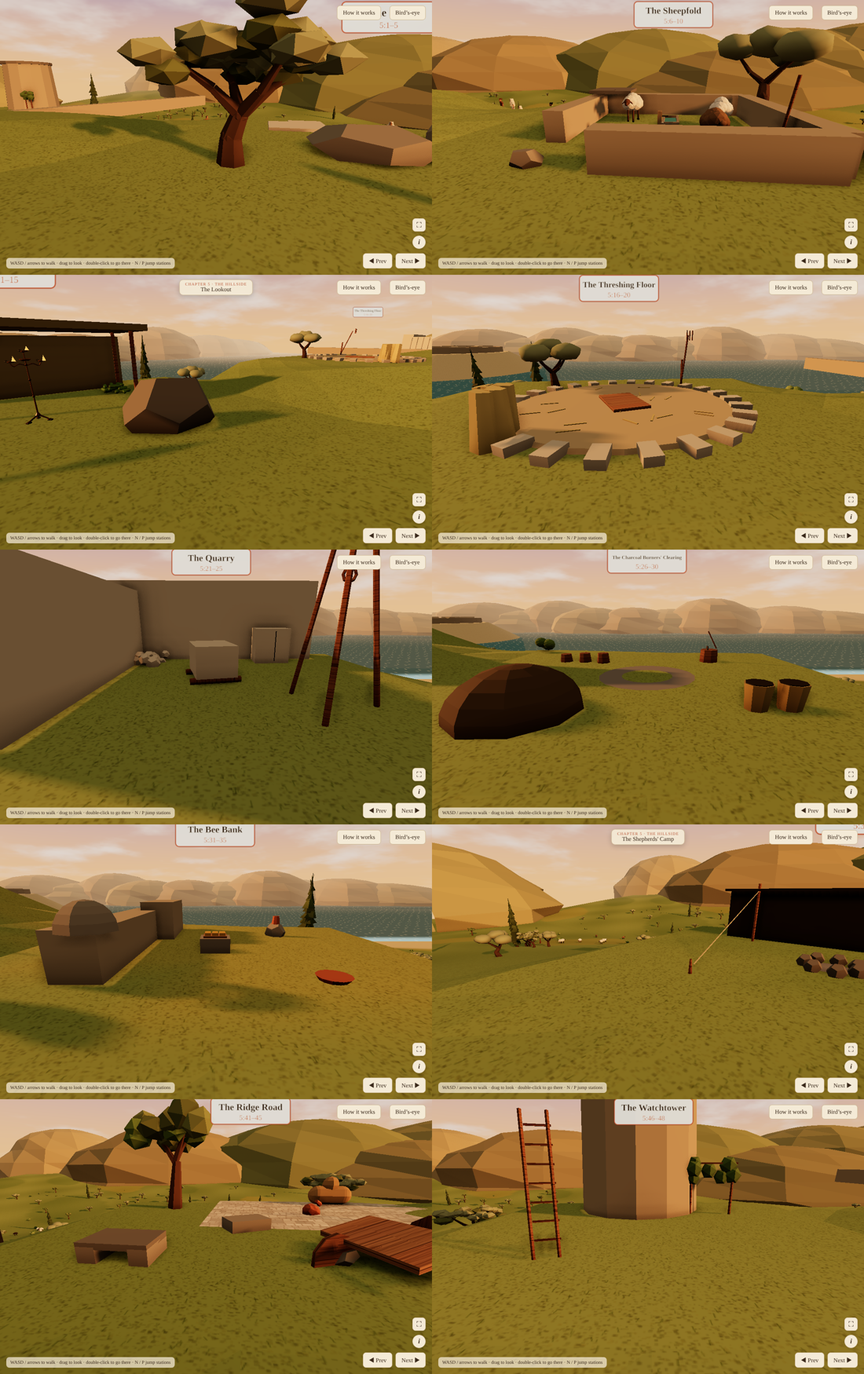
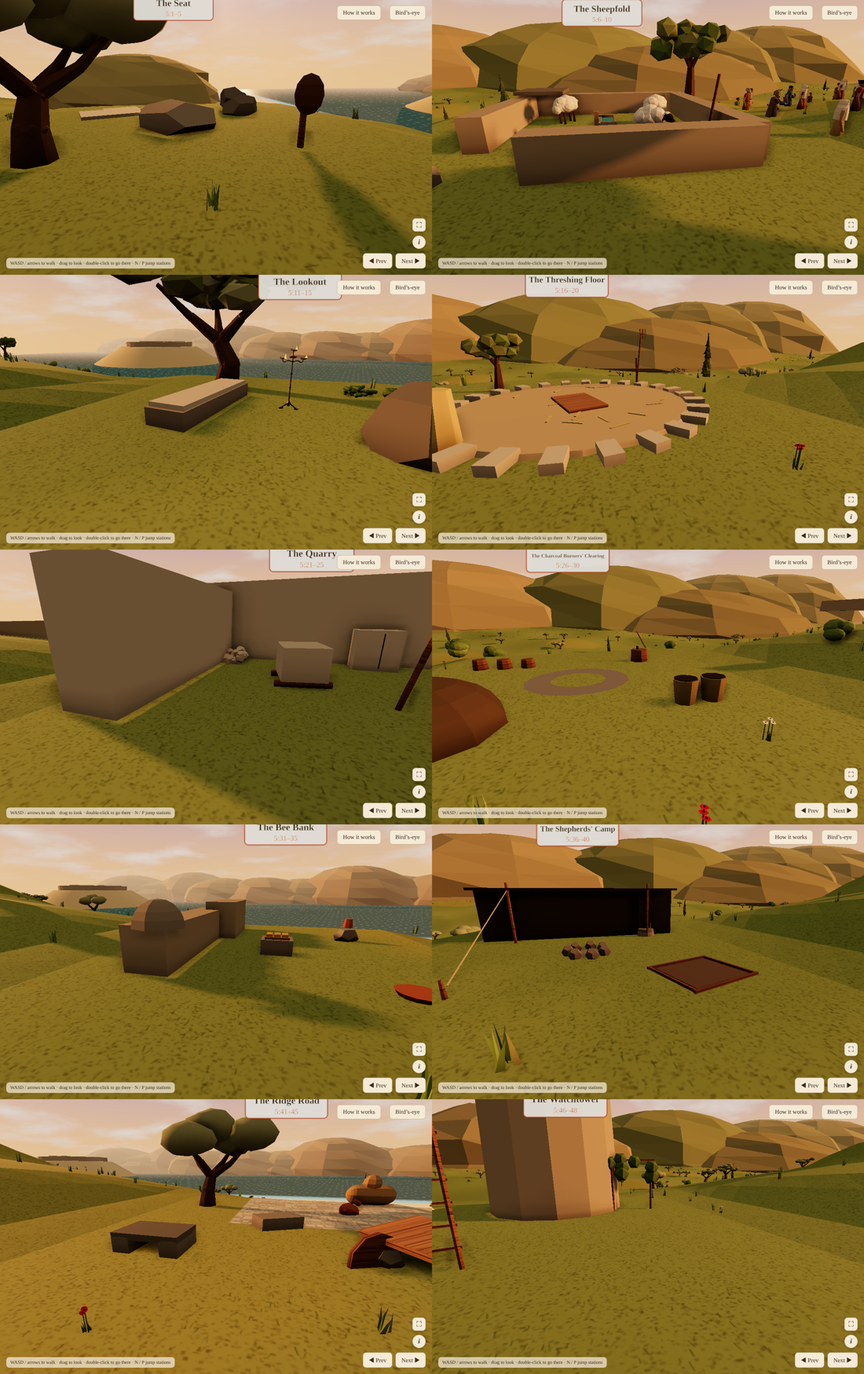
Sermon on the Mount: zigzag down the whole summit; Lookout is a long flat rock under a terebinth; rule 6 hillside form
Claude-Session: https://claude.ai/code/session_011GTaBjBmrRYMxR8CbFEKPF

diff --git a/som-ltm/world/mount.js b/som-ltm/world/mount.js
@@ -2,10 +2,9 @@
 // Method rule 4: each verse on a SPOT, a feature of the place (P) or an object (O); at least two natural objects per room.
 // Spots in the fixed order, as seen standing on the path facing the room: 1 near-left, 2 far-left, 3 far-right, 4 near-right, 5 centre.
 // Layout: the ridge runs along z = 0, with the trodden path on its crest. Compass: east = -x, north = +z (see world/terrain.js).
-//   The Crown (east of the stile at x = STILE_X), TRIAL 2026-11-13: highest at its east end. Start at the Seat on the top,
-//   then a switchback trail (TRAIL, world/terrain.js) zigzags down the hill: room 2 north, room 3 south (the lake edge), room 4 north, then the stile.
-//   The Upper Meadow (west of the stile): facing west, rooms 5-7 on the left (south), turn, rooms 8-10 on the right (north) back to the stile.
-//   The path down to chapter 6 leaves from the Watchtower (room 10), down the west side of the field wall.
+//   Rule 6, hillside form: a switchback trail (TRAIL, world/terrain.js) runs down the ridge from the Seat on the top (east end),
+//   rooms at its turns alternating north and south, each lower than the last: rooms 1-4 on the Crown, the stile, rooms 5-10 in the Upper Meadow.
+//   The path down to chapter 6 leaves from the Watchtower (room 10) at the low west end.
 const GZ = -16, TZ = 0, HX = 0, HZ = 400;            // the player starts at (0, GZ + 16) = (0, 0), on the ridge path; HX/HZ unused
 const RAISED = [];
 const WALKWAYS = [[STILE_X - 1.5, -1.8, STILE_X + 1.5, 1.8]];   // the stile gap
@@ -54,15 +53,12 @@ defBuilder('som.fold', (r, { ch }) => { const F = roomFrame(r), h = 3, W = .55, 
   for (const [f, s] of [[1.4, -1.4], [.5, 1.6], [-1.3, 1.1]]) { const [x, z] = F.at(f, s); sheep(x, z); }
   finishRoom(ch, r, F, out); });
 
-// ---- 5.3 THE LOOKOUT (5:11–15): gourd on a pole · brushwood back wall · heap of cucumbers · cliff-edge boulder · lamp on its stand ----
+// ---- 5.3 THE LOOKOUT (5:11–15): a long flat rock under a great terebinth on the lake edge, the view open to Hippos ----
+// near end of the long flat rock · the terebinth's trunk · heap of cucumbers · cliff-edge boulder · lamp on its stand
 defBuilder('som.lookout', (r, { ch }) => { const F = roomFrame(r), h = 2.4, sp = SQ(h).map(([f, s]) => F.at(f, s)), out = [];
-  const booth = atR(F, h * .55, 0, Math.PI);                     // local +z = forward
-  for (const s of [-h - .6, h + .6]) for (const f of [0, h * .9]) cyl(.07, .08, 2.3, 6, 'wood', s, 0, f, booth);
-  box(2 * h + 1.6, 2.1, .25, brushM, 0, 0, h * .9 + .15, booth);                       // the woven back wall
-  box(2 * h + 2, .2, h * .9 + 1, brushM, 0, 2.25, h * .45, booth);                     // the brushwood roof
-  { const g = atR(F, -h, -h); cyl(.06, .07, 1.9, 6, 'wood', 0, 0, 0, g); add(new THREE.SphereGeometry(.22, 8, 6), mat('somGourd', '#c9a24e'), .14, 1.45, 0, g).scale.y = 1.4; out.push(ground(sp[0], 1.95)); }
-  out.push(ground(F.at(h + .4, -h), 1.2));                                                // on the back wall (its middle, so the marker rests on it)
-  { const g = atR(F, h - .3, h); for (let k = 0; k < 14; k++) { const c = add(new THREE.CapsuleGeometry(.07, .28, 3, 6), cukeM, R(-.4, .4), .1 + (k % 3) * .1, R(-.3, .3), g); c.rotation.z = Math.PI / 2; c.rotation.y = R(0, 3); } out.push(ground(F.at(h - .3, h), .5)); }
+  { const g = atR(F, -h + .2, -h - .2, -.15); const rk = box(1.1, .5, 4.2, rockM, 0, -.05, -1.6, g); rk.scale.set(1, 1, 1); box(1, .12, 4, paleM, 0, .45, -1.6, g); out.push(ground(sp[0], .65)); }   // the long flat rock, running away from you along the left
+  { const [x, z] = F.at(h + .3, -h - .3); tree(x, z, 1.9); out.push(ground(sp[1], .7)); }                                   // the great terebinth over it
+  { const g = atR(F, h, h); for (let k = 0; k < 16; k++) { const c = add(new THREE.CapsuleGeometry(.07, .28, 3, 6), cukeM, R(-.45, .45), .08 + (k % 3) * .1, R(-.35, .35), g); c.rotation.z = Math.PI / 2; c.rotation.y = R(0, 3); } for (let k = 0; k < 10; k++) add(new THREE.IcosahedronGeometry(R(.15, .25), 0), leafM, R(.8, 2.4), .1, R(-1.5, 1.5), g); out.push(ground(sp[2], .45)); }
   { const [x, z] = sp[3]; out.push({ x, z, y: somRock(x, z, 1.1) }); }
   { const [cx, cz] = sp[4]; out.push({ x: cx, z: cz, y: libAt('candelabrum', cx, cz, 0, 1) }); }
   finishRoom(ch, r, F, out); });
@@ -97,7 +93,7 @@ defBuilder('som.charcoal', (r, { ch }) => { const F = roomFrame(r), h = 2.6, sp 
   { const g = atR(F, h, h); cyl(.35, .38, .5, 8, 'wood', 0, 0, 0, g); const hd = cyl(.025, .025, .8, 5, 'wood', .1, .5, 0, g); hd.rotation.z = .5; box(.04, .14, .22, ironM, -.08, .5, 0, g); out.push(ground(sp[2], .55)); }
   { const g = atR(F, -h, h); for (const s of [-.35, .35]) { cyl(.3, .24, .55, 8, mat('somRush', '#a08a52'), s, 0, 0, g); cyl(.27, .27, .05, 8, darkM, s, .52, 0, g); } out.push(ground(sp[3], .6)); }
   { const m = add(new THREE.RingGeometry(.8, 1.5, 18), ashM, F.x, F.y + .04, F.z); m.rotation.x = -Math.PI / 2; out.push({ x: F.x, z: F.z, y: F.y + .1 }); }
-  for (let i = 0; i < 12; i++) { const a = R(0, 6.3), d = R(7, 11), x = F.x + Math.cos(a) * d, z = F.z + Math.sin(a) * d; if (Math.abs(z) > 4) shrub(x, z, R(1, 1.4)); }   // the scrub round the clearing
+  for (let i = 0; i < 12; i++) { const a = R(0, 6.3), d = R(7, 11), x = F.x + Math.cos(a) * d, z = F.z + Math.sin(a) * d; if (TRAIL_D(x, z) > 4) shrub(x, z, R(1, 1.4)); }   // the scrub round the clearing, off the trail
   finishRoom(ch, r, F, out); });
 
 // ---- 5.7 THE BEE BANK (5:31–35): capped bank end · stacked hive pipes · smoker pot · bees' water dish · tray of comb ----
@@ -156,7 +152,7 @@ defBuilder('som.tower', (r, { ch }) => { const F = roomFrame(r), h = 2.3, sp = S
     placed.push([x, z]); person(x, z, Math.atan2(sx - x, sz - z), ROBES[(rnd() * ROBES.length) | 0], { y: heightAt(x, z) - .55, veil: rnd() > .65 ? '#e8dcc4' : undefined, hair: (rnd() * 4) | 0 }); }
 }
 // ---------- olive trees and scrub on the slopes, clear of the ridge path, the rooms, the crowd and the path down ----------
-{ const clear = (x, z) => (Math.abs(z) < 21 && x > -52 && x < 95) || (x > -62 && x < -26 && z > 5 && z < 44) || (Math.abs(x - 19) < 5 && z < 0) || Math.hypot(x - CITY[0], z - CITY[1]) < 40;
+{ const clear = (x, z) => (Math.abs(z) < 21 && x > -52 && x < 112) || (x > -62 && x < -26 && z > 5 && z < 44) || (Math.abs(x - 110) < 5 && z < 0) || Math.hypot(x - CITY[0], z - CITY[1]) < 40;
   for (let i = 0; i < 340; i++) { const x = R(-180, 200), z = R(-90, 150); if (clear(x, z)) continue; const r = rnd(); if (r < .5) tree(x, z, R(.7, 1.1)); else if (r < .58) cypress(x, z, R(.8, 1.1)); else shrub(x, z, R(.9, 1.5)); }
   for (let i = 0; i < 14; i++) sheep(R(110, 150), R(30, 70));
 }
@@ -168,5 +164,4 @@ for (const [x, r] of [[-30, .3], [-24, -.2], [-6, .1]]) { const z = SHORE + 2, b
 buildRooms(1);
 // walking routes: along the ridge path, through the stile, never across a room
 VIA['1.5'] = [[10, 1], [STILE_X, 0], [22, 0]];                     // down the last leg of the trail and over the stile into the Upper Meadow
-VIA['1.8'] = [[78, 0], [88, 0], [78, 0]];                          // the Meadow loop turns at its west end
 zoneLabel(5, 'The Summit', 20, 0);

diff --git a/som-ltm/world/terrain.js b/som-ltm/world/terrain.js
@@ -5,7 +5,7 @@
 // Hippos, the town on its hill across the lake, lies to the south-east: "a city set on a hill" (5:14).
 const SHORE = -95;
 // the switchback trail down the Crown: from the Seat at the top, turning at each room, down to the stile (kept in step with world/mount.js)
-const TRAIL = [[-34, 0], [-24, 4], [-10, -4], [4, 4], [15, 0]];
+const TRAIL = [[-34, 0], [-24, 4], [-10, -4], [4, 4], [15, 0], [29, -4], [43, 4], [57, -4], [71, 4], [85, -4], [99, 4], [108, 0]];
 const TRAIL_D = (x, z) => { let d = 1e9; for (let i = 0; i < TRAIL.length - 1; i++) { const [ax, az] = TRAIL[i], [bx, bz] = TRAIL[i + 1], dx = bx - ax, dz = bz - az, t = Math.max(0, Math.min(1, ((x - ax) * dx + (z - az) * dz) / (dx * dx + dz * dz))); d = Math.min(d, Math.hypot(x - ax - dx * t, z - az - dz * t)); } return d; };
 const HILL = 24;                                                     // height of the Crown above the shore
 const STILE_X = 15;
@@ -23,7 +23,7 @@ function hRaw(x, z) {
 }
 // level pads under each room, kept in step with books/matthew.json. [cx, cz, halfW, halfD]
 const FLAT = [[-42, 0, 5.5, 5.5], [-24, 12, 5.5, 5.5], [-10, -12, 5.5, 5.5], [4, 12, 5.5, 5.5],
-  [32, -11, 5.5, 5.5], [52, -11, 5.5, 5.5], [72, -11, 5.5, 5.5], [72, 11, 5.5, 5.5], [52, 11, 5.5, 5.5], [32, 11, 5.5, 5.5]];
+  [29, -12, 5.5, 5.5], [43, 12, 5.5, 5.5], [57, -12, 5.5, 5.5], [71, 12, 5.5, 5.5], [85, -12, 5.5, 5.5], [99, 12, 5.5, 5.5]];
 const heightAt0 = (x, z) => hRaw(x, z);
 const heightAt = (x, z) => { let h = heightAt0(x, z);
   for (const [cx, cz, hw, hd] of FLAT) { const dx = Math.max(0, Math.abs(x - cx) - hw), dz = Math.max(0, Math.abs(z - cz) - hd), d = Math.hypot(dx, dz);
@@ -40,8 +40,8 @@ const heightAt = (x, z) => { let h = heightAt0(x, z);
     p.setY(i, heightAt(x, z));
     const c = cGrass.clone().lerp(cGrass2, (Math.sin(x * .13) * Math.cos(z * .11) + 1) / 2);
     const n2 = Math.sin(x * .041 + 2) * Math.sin(z * .047) + Math.sin(x * .09 - z * .07) * .5; if (n2 > .7) c.lerp(cFlower, .35); else if (n2 < -.6) c.lerp(new THREE.Color('#6f8c45'), .4);
-    if (Math.abs(x - 19 - Math.sin(z * .05) * 4) < 2 && z < -2 && z > SHORE) c.lerp(cPath, .7);   // the path down, west of the stile
-    if ((Math.abs(z) < 2.6 && x > STILE_X - 4 && x < 88) || TRAIL_D(x, z) < 1.6) c.lerp(cPath, .45);                                                                  // the trodden way along the ridge
+    if (Math.abs(x - 110 - Math.sin(z * .05) * 4) < 2 && z < 0 && z > SHORE) c.lerp(cPath, .7);   // the path down from the Watchtower
+    if (TRAIL_D(x, z) < 1.6) c.lerp(cPath, .45);                                                                  // the trodden way along the ridge
     if (z < SHORE + 8) c.lerp(cBank, Math.min(1, (SHORE + 8 - z) / 6));
     col.push(c.r, c.g, c.b);
   }

diff --git a/som-ltm/PLAN.md b/som-ltm/PLAN.md
@@ -22,7 +22,7 @@ You **begin where he sat down** (5:1) and **walk down the mountain** (8:1):
 **Clockwise, as the method defines it.** Chapter 5 is two clockwise loops joined at the stile, the Crown and then the Upper Meadow; chapters 6 and 7 are one loop each. You enter a district facing in. Rooms run up your **left** side, cross at the far end, and come back down your **right** side. Seen from above, that's clockwise.
 
 The way from one district to the next leaves from the last room, never from the far end:
-- The summit's last room is the Watchtower, where the path down starts.
+- The summit's last room is the Watchtower, at the low west end of the ridge, where the path down starts.
 - The farm's last room is at its upper-west corner, beside the west gate, where the lane down starts.
 - The village ends beside its own entrance, at the wadi.
 
@@ -45,23 +45,23 @@ The way from one district to the next leaves from the last room, never from the 
 
 ## 3. Chapter 5: the Summit (10 rooms)
 
-**Layout.** The top of the hill is a ridge running east–west. A dry-stone field wall with a **stile** crosses it and divides it in two:
-- **The Crown** lies east of the wall. It is the highest point, where he sat, and holds rooms 1–4 (outline: Setting, Beatitudes, Set Apart).
-- **The Upper Meadow** lies west of the wall. It holds rooms 5–10 (outline: But I Tell You).
+**Layout.** The top of the hill is a ridge running east–west. It is highest at its east end, where he sat, and falls steadily west. A dry-stone field wall with a **stile** crosses it and divides it in two:
+- **The Crown** lies east of the wall and holds rooms 1–4 (outline: Setting, Beatitudes, Set Apart).
+- **The Upper Meadow** lies west of the wall and holds rooms 5–10 (outline: But I Tell You).
 
 The outline's first big break (5:20 / 5:21) is the stile itself.
 
-**Route.**
-1. You start just east of the stile, facing east, with the Crown ahead.
-2. **The Crown loop** goes up the left side (north): 1 the Seat, then 2 the Sheepfold. It turns at the east end and comes back down the right side (south, the lake edge): 3 the Lookout, facing Hippos across the lake, then 4 the Threshing Floor, beside the stile.
-3. Over the stile, facing west, **the Upper Meadow loop** goes up the left side (south): 5 the Quarry, 6 the Charcoal Burners' Clearing, 7 the Bee Bank. It turns at the west end and comes back down the right side (north): 8 the Shepherds' Camp, 9 the Ridge Road, 10 the Watchtower, beside the stile.
-4. The path down to chapter 6 leaves from the Watchtower. It runs along the west side of the field wall to the ridge's south edge, without crossing the stile, then down the slope.
+**Route** (rule 6, hillside form). A switchback trail runs down the ridge from the top. Rooms stand at its turns, alternating sides (north = the inland side, south = the lake side), and each is lower than the one before.
+1. **The Seat** is on the very top. You start there, facing it.
+2. The trail turns down to the north for **the Sheepfold**, then to the south for **the Lookout** on the lake edge, then to the north for **the Threshing Floor**. Its last leg goes down to the stile.
+3. Over the stile, it keeps zigzagging west and down: south for **the Quarry**, north for **the Charcoal Burners' Clearing**, south for **the Bee Bank**, north for **the Shepherds' Camp**, south for **the Ridge Road**, and north for **the Watchtower** at the meadow's low west end.
+4. The path down to chapter 6 leaves from the Watchtower, south down the slope.
 
 | Room | Verses | Place | 1 near-left | 2 far-left | 3 far-right | 4 near-right | 5 centre | Objects in the room |
 | --- | --- | --- | --- | --- | --- | --- | --- | --- |
 | 5.1 | 5:1–5 | **The Seat**: a rock outcrop on the crown | the old olive tree (O) | a patch of bare limestone pavement (P) | a split boulder with a thornbush in its crack (P) | a goatskin water bag hung on a stake (O) | the flat seat-rock where he sat (P) | olive tree; water bag on its stake |
 | 5.2 | 5:6–10 | **The Sheepfold**: a dry-stone pen | the gateway (P) | the corner roofed with flat slabs as a shelter (P) | the corner shaded by an oak (O) | the shepherd's crook hung on the wall (O) | the stone water trough (O) | trough; oak; crook; the flock |
-| 5.3 | 5:11–15 | **The Lookout**: a brushwood field booth in a cucumber field on the south edge. You face it from the path, and Hippos across the lake lies beyond it on your left | a gourd bottle hung on the booth's front pole (O) | the booth's woven brushwood back wall (P) | a heap of cucumbers from the field (O) | the cliff-edge boulder over the lake (P) | lamp on its stand, set out on the open ground in front of the booth **(v)** (O) | gourd; cucumbers; lamp stand |
+| 5.3 | 5:11–15 | **The Lookout**: a long flat rock under a great terebinth on the lake edge, open to the view of Hippos across the water, beside a cucumber field | the near end of the long flat rock (P) | the terebinth's trunk (O) | a heap of cucumbers from the field (O) | the cliff-edge boulder over the lake (P) | lamp on its stand **(v)** (O) | terebinth; cucumbers; lamp stand |
 | 5.4 | 5:16–20 | **The Threshing Floor**: a round floor of beaten earth ringed with stones, open to the west wind | a stack of sheaves (O) | the lone thorn tree at the floor's windward side (O) | the winnowing fork (O) | the floor's raised stone edge, worn smooth (P) | the threshing sledge (O) | sheaves; thorn tree; fork; sledge |
 | — | — | **The Stile**: the field wall across the ridge (5:20 / 5:21) | | | | | | |
 | 5.5 | 5:21–25 | **The Quarry**: a small stone quarry cut into the ridge | the left quarry face, striped with chisel marks (P) | a spoil heap of rock chippings at the foot of the face (P) | iron wedges hammered into a crack (O) | wooden shear-legs for lifting stone (O) | a squared block on wooden rollers (O) | wedges; shear-legs; block on rollers |
@@ -69,7 +69,7 @@ The outline's first big break (5:20 / 5:21) is the stile itself.
 | 5.7 | 5:31–35 | **The Bee Bank**: clay-pipe beehives set in a stone bank | the bank's rounded end with a capstone (P) | the stacked hive pipes (O) | the smoker pot (O) | a shallow clay water dish for the bees (O) | the beekeeper's tray of comb (O) | hive pipes; smoker; water dish; tray |
 | 5.8 | 5:36–40 | **The Shepherds' Camp**: a black goat-hair tent | the tent's left guy-rope peg (P) | the tent's open front and its pole (P) | a quern at the tent's right corner (O) | a ground loom pegged out on the grass (O) | the hearth stones (O) | tent; quern; loom; hearth |
 | 5.9 | 5:41–45 | **The Ridge Road**: the road over the hill, where the village track forks off | the culvert stones where the road crosses a gully (P) | a lone carob tree (O) | a broken amphora half-buried by the road (O) | a cart with a broken wheel, propped on stones (O) | the flat stone at the fork where travellers rest (P) | carob tree; amphora; broken cart; a camel resting beyond the fork |
-| 5.10 | 5:46–48 | **The Watchtower**: a round stone vineyard tower on the ridge's north side, near the stile | the tower's wooden ladder (O) | the tower's lookout window (P) | the vine trellis (O) | — | — | ladder; trellis |
+| 5.10 | 5:46–48 | **The Watchtower**: a round stone vineyard tower at the meadow's low west end | the tower's wooden ladder (O) | the tower's lookout window (P) | the vine trellis (O) | — | — | ladder; trellis |
 
 **Outline signposts in chapter 5.** Each stands beside the spot where its section's first verse lives. A sign names the full path when a new higher section begins.
 - *Setting* (5:1–2), with the PDF's own heading for the whole sermon (*Discourse: Ethics*) on the board at the start: 5.1 spot 1.
@@ -100,7 +100,7 @@ The outline's big break, Focus Internally (6:1–18) / Focus Eternally (6:19–3
 | 6.1 | 6:1–5 | **The Courtyard**: the paved court of the farmhouse | the gate's left pier (P) | the curtained doorway into the house (P) | the stone stair up to the roof (P) | the stone roof-roller (O) | the cistern mouth with its round stone lid (O) | roof-roller; cistern lid; a donkey tethered by the gate |
 | 6.2 | 6:6–10 | **The Inner Storeroom**: a windowless room behind a shut door | the shut door's stone threshold (P) | a row of tall storage jars (O) | bunches of dried herbs from a beam (O) | a plastered wall shelf (P) | a wooden chest (O) | jars; herbs; chest |
 | 6.3 | 6:11–15 | **The Bakehouse Yard**: the clay oven and kneading yard | the sieve on its hook (O) | the woodpile (O) | the clay oven (O) | the yard's smoke-stained corner (P) | the kneading bowl with its cloth (O) | sieve; woodpile; oven; kneading bowl; loaves cooling by the oven |
-| 6.4 | 6:16–20 | **The Spring**: where the spring runs out of the rock at the bottom of the farm | the spout (P) | flask of oil on a ledge of rock **(v)** (O) | a wash-line with a tunic drying (O) | a terebinth shading the bank (O) | the stepping stones across the outflow (P) | oil flask; wash-line; terebinth; a linen towel spread on the rocks |
+| 6.4 | 6:16–20 | **The Spring**: where the spring runs out of the rock at the bottom of the farm | the spout (P) | flask of oil on a ledge of rock **(v)** (O) | a wash-line with a tunic drying (O) | a willow shading the bank (O) | the stepping stones across the outflow (P) | oil flask; wash-line; willow; a linen towel spread on the rocks |
 | 6.5 | 6:21–25 | **The Ox Stall**: an open-fronted stall | the left stall post (P) | the yoke on its peg (O) | the plough (O) | a heap of straw bedding (O) | the feeding niche cut in the back wall (P) | yoke; plough; straw; the ox |
 | 6.6 | 6:26–30 | **The Granary Field**: a granary at the edge of a field | the terrace steps (P) | a patch of lentils (O) | the scarecrow (O) | the granary door (P) | a hoe left in the furrow (O) | lentils; scarecrow; hoe |
 | 6.7 | 6:31–34 | **The Olive Press**: the press at the farm's upper-west corner, beside the west gate | the crushing stone: a round millstone in its stone bed (O) | the press beam's socket in the wall (P) | a stack of rope pulp-baskets (O) | the rock-cut collecting pit for the oil (P) | — | crushing stone; pulp baskets |
@@ -168,8 +168,8 @@ Animals, the crowd and loose things are scenery and don't count as objects.
 
 | Chapter | Objects (O) | Place features (P) |
 | --- | --- | --- |
-| 5 | olive tree · water bag on a stake · stone water trough · oak · shepherd's crook · gourd bottle · heap of cucumbers · lamp stand (v) · sheaves · winnowing fork · thorn tree · threshing sledge · iron wedges · shear-legs · squared block on rollers · charcoal mound · axe and chopping block · rush baskets of charcoal · hive pipes · smoker pot · bees' water dish · tray of comb · quern · ground loom · hearth stones · goat-hair tent · carob tree · half-buried amphora · broken cart · tower ladder · vine trellis | limestone pavement · split boulder · seat-rock · fold gateway · slab-roofed corner · brushwood back wall · cliff-edge boulder  worn floor edge · chisel-marked face · spoil heap · cut stumps · ash ring · capped bank end · guy-rope peg · tent front · gully culvert · resting stone at the fork · tower lookout window  the stile |
-| 6 | roof-roller · cistern lid · storage jars · dried herbs · wooden chest · sieve · woodpile · clay oven · kneading bowl · oil flask (v) · wash-line · terebinth · linen towel · yoke · plough · straw bedding · lentils · scarecrow · hoe · crushing stone · pulp baskets | gate pier · curtained doorway · roof stair · storeroom threshold · wall shelf · smoke-stained corner · spout · stepping stones · stall post · feeding niche · terrace steps · granary door · press-beam socket · oil collecting pit · west gate |
+| 5 | olive tree · water bag on a stake · stone water trough · oak · shepherd's crook · terebinth · heap of cucumbers · lamp stand (v) · sheaves · winnowing fork · thorn tree · threshing sledge · iron wedges · shear-legs · squared block on rollers · charcoal mound · axe and chopping block · rush baskets of charcoal · hive pipes · smoker pot · bees' water dish · tray of comb · quern · ground loom · hearth stones · goat-hair tent · carob tree · half-buried amphora · broken cart · tower ladder · vine trellis | limestone pavement · split boulder · seat-rock · fold gateway · slab-roofed corner · long flat rock · cliff-edge boulder  worn floor edge · chisel-marked face · spoil heap · cut stumps · ash ring · capped bank end · guy-rope peg · tent front · gully culvert · resting stone at the fork · tower lookout window  the stile |
+| 6 | roof-roller · cistern lid · storage jars · dried herbs · wooden chest · sieve · woodpile · clay oven · kneading bowl · oil flask (v) · wash-line · willow · linen towel · yoke · plough · straw bedding · lentils · scarecrow · hoe · crushing stone · pulp baskets | gate pier · curtained doorway · roof stair · storeroom threshold · wall shelf · smoke-stained corner · spout · stepping stones · stall post · feeding niche · terrace steps · granary door · press-beam socket · oil collecting pit · west gate |
 | 7 | planks · pitch pot · trestle and adze · boat on stocks · salting vat · net · fish basket · mending stone and rope coil · tax table · mounting block · tethering rail · trade bales · almond tree · pomegranate tree · well with rope and bucket · pruned branches · stone bench · stone mortar · roofing reeds · drying flax · basket of dates · mud-brick stack | saw pit · courtyard entrance · narrow hill path · irrigation sluice · hewn doorstep · shelf edge · far bank · mud-brick front wall |
 | Scenery | the flock · camel · donkey · ox · mules · the crowd · loaves cooling (6.3) | |
 
@@ -179,7 +179,7 @@ Animals, the crowd and loose things are scenery and don't count as objects.
 
 1. **Chapter 5, rooms 1–4.** These are built already. Rework them to this plan:
    - distinct spots in the Seat and the Sheepfold;
-   - the Lookout's gourd, cucumbers and lamp, with Hippos in view (dropping the jar and bench);
+   - the Lookout as a long flat rock under a great terebinth, with the view open to the lake and Hippos (no hut);
    - the threshing floor's thorn tree and worn edge (dropping the corner sheaves);
    - the stile.
 2. **Chapter 5, rooms 5–10.**

diff --git a/ltm-engine/docs/METHOD.md b/ltm-engine/docs/METHOD.md
@@ -9,7 +9,7 @@ The owner's method for memorizing a book of the Bible with a location-triggered 
 | 3 | **Rooms of five verses** | A chapter of *n* verses has ceil(*n*/5) rooms. Room *k* holds verses 5*k*−4 … 5*k*; the last room may hold fewer. A room is any distinct place with a front, four corners and a centre that you can see while standing in front of it: an actual room, a gate court, a market stall, a stoa bay, a clearing on a hilltop. | Small, fixed-size chunks fit working-memory limits and give each room a predictable address (Cowan, 2001). |
 | 4 | **Each verse on a spot** | Each verse is tied to one spot: a fixed corner or the centre of the room. A spot can be a feature of the place itself (a doorway, a column, a corner of a wall, a step) or an object standing there. Every spot should be easy to point at and easy to tell apart from the other spots in its room. **Every room has at least two objects**, and they should look natural to that place (a fountain in a court, baskets in a stall, a bench in a stoa). Now and then an object can be made to suit a particular verse, when it helps and still fits the place, but that is the exception, not the pattern. Never fill a room with objects that only exist to carry verses. Objects should be unique across the book where possible. | Loci must be distinctive and well separated to avoid confusion (Bower, 1970; Yates, 1966). |
 | 5 | **Fixed order within a room** | As seen standing in front of the room: **1 near-left → 2 far-left → 3 far-right → 4 near-right → 5 centre.** Spot 5 is the centre of the square formed by spots 1–4, on an object if one stands there. A room with fewer than five verses uses spots 1, 2, 3… in that order and leaves the rest empty. | A constant traversal order is what turns the method of loci into a serial-recall tool (Bower, 1970; Dresler et al., 2017). |
-| 6 | **Rooms in a district run clockwise** | Start at the room nearest the district entrance on the left, go up the left side, then come back down the right. Gates and wells can be rooms. | The same: one fixed route through the whole palace. |
+| 6 | **Rooms follow one fixed route** | Rooms follow the natural route through the district, always in the same order. **In a town or court:** clockwise. Start at the room nearest the district entrance on the left, go up the left side, then come back down the right. **On a hillside:** a switchback trail from the highest point down, with the rooms at its turns, alternating sides, each lower than the last. Gates and wells can be rooms. | The same: one fixed route through the whole palace. |
 | 7 | **Learners make their own vivid images** | Show at most one or two example images, phrased "for example, you could picture…". Images should be bigger than life, funny, moving and emotional. The place gives the spot; the learner makes the picture. | Self-generated, interactive, distinctive imagery is recalled better (Bower, 1970; McDaniel & Einstein, 1986). |
 | 8 | **ESV text** | Verse text comes from `verses.json` (ESV, used with the owner's permission). The translation is fixed per book. | Verbatim recall needs one stable source text. |
 | 9 | **Walk it back, and review** | After placing a room, the learner closes their eyes, walks the route and recites. They review the next day and again a week later. | Retrieval practice (Roediger & Karpicke, 2006) and spaced review (Cepeda et al., 2006). Method-of-loci training produces durable gains (Dresler et al., 2017). |
@@ -28,4 +28,5 @@ Virtual palaces work: building the palace in a virtual environment gives the sam
 - Yates, F. A. (1966). *The Art of Memory*. Routledge & Kegan Paul.
 
 ## Change log
+- 2026-11-13, owner: rule 6 now allows a downhill switchback route on a hillside ("zigzag down the hill"), alongside the clockwise route in towns and courts. First used in som-ltm chapter 5.
 - 2026-11-12, owner: rule 4 changed from "each verse on an object" to "each verse on a spot". A spot can be a feature of the place or an object; every room has at least two objects, natural to the place; an object made for a verse is the exception. Rule 3 now says what counts as a room, rule 5 lets spot 5 be the bare centre in any room, rule 7 adds "the place gives the spot; the learner makes the picture". The validator now accepts place spots (`"place": true`) and checks for at least two objects per room; the critic rubric and reference prompts speak of spots.

diff --git a/som-ltm/INSTRUCTIONS.md b/som-ltm/INSTRUCTIONS.md
@@ -13,3 +13,4 @@ Every instruction from the owner, quoted, in the order it arrived. Re-read befor
 | 7 | 2026-11-13 | "create a plan for the sermon on the Mount that fulfills what we need, matches the rules and fits the needs for the sermon on the Mount. Then give that plan to a blind critic and keep reiterating until they give it a 8/10." / "tell me what the critic judges it against" | Done: `PLAN.md` (23 rooms), brief and rounds in `CRITIC.md`; passed 8.4 in round 5 |
 | 8 | 2026-11-13 | "Great. Let's implement that plan for chapter 5." | Done: all ten rooms of chapter 5 built from `PLAN.md` §3 on an east–west ridge, with the stile, Hippos across the lake and the crowd on the north slope; all 11 outline signposts; fast.mjs 40/40 |
 | 9 | 2026-11-13 | "is there any way to make the room order go from highest elevation, and that's where you start, to lowest… rather than doing a town square thing, which isn't very natural on a hill? You're going zigzag down the hill. Test that out with the first 4 locations." (sketch over the bird's-eye view) | Trial built: the ridge is now highest at its east end; the Seat on the top, then a switchback trail down with the Sheepfold (north), Lookout (south) and Threshing Floor (north), each lower than the last, then the stile. Rooms 5–10 unchanged. Not yet a rule change (rule 6 says clockwise) |
+| 10 | 2026-11-14 | "Let's do that zigzag pattern all the way down the mountain." / "what is the stick with like a circle at the top of it?… the lookout point has a wall blocking the view out to the lake… a random shed on top of a hill seems… Odd. Maybe instead put a long flat Rock or a bench? With a large tree over it?" | Done: the whole of chapter 5 zigzags down the ridge (rooms 5–10 too); METHOD rule 6 now allows the hillside switchback form; the gourd-on-a-pole and the booth are gone; the Lookout is a long flat rock under a great terebinth, open to the lake and Hippos |
